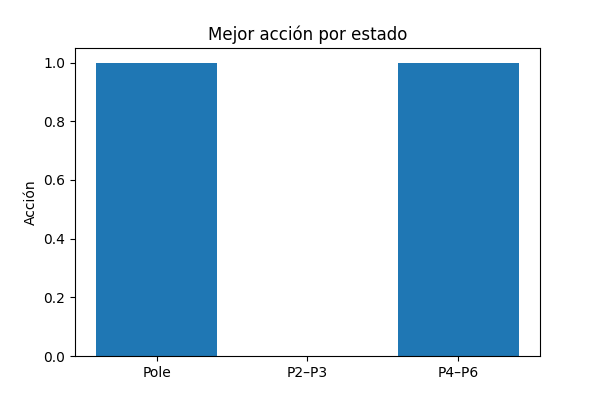
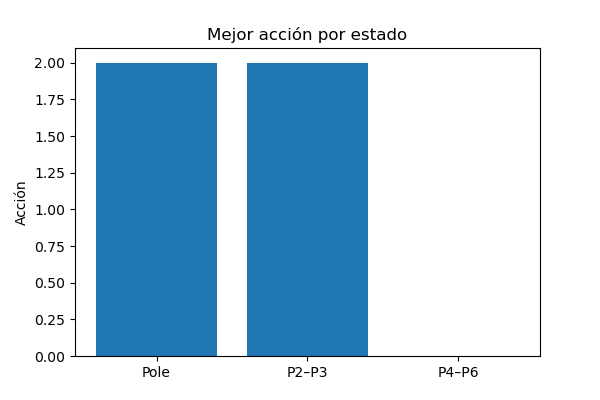
Resultados por consola

diff --git a/utils/track_mapper.py b/utils/track_mapper.py
@@ -8,7 +8,6 @@ import sys
 def get_track_waypoints():
     pygame.init()
     
-    # Cargar la imagen del circuito
     track_img = pygame.image.load("assets/track.png")
     track_img = pygame.transform.scale(track_img, (900, 600))
     
@@ -26,30 +25,30 @@ def get_track_waypoints():
             elif event.type == pygame.KEYDOWN:
                 if event.key == pygame.K_ESCAPE:
                     running = False
-                elif event.key == pygame.K_u and waypoints:  # U para deshacer último punto
+                elif event.key == pygame.K_u and waypoints:  
                     waypoints.pop()
             elif event.type == pygame.MOUSEBUTTONDOWN:
-                # Agregar waypoint
+
                 pos = pygame.mouse.get_pos()
                 waypoints.append(pos)
                 print(f"Punto {len(waypoints)}: {pos}")
         
-        # Dibujar
+
         screen.blit(track_img, (0, 0))
         
-        # Dibujar waypoints y líneas
+
         if len(waypoints) > 0:
             for i, point in enumerate(waypoints):
                 pygame.draw.circle(screen, (255, 0, 0), point, 5)
-                # Número del punto
+
                 text = font.render(str(i+1), True, (255, 255, 255))
                 screen.blit(text, (point[0] + 8, point[1] - 8))
             
-            # Líneas conectando waypoints
+
             if len(waypoints) > 1:
                 pygame.draw.lines(screen, (0, 255, 0), False, waypoints, 2)
         
-        # Instrucciones
+
         instructions = [
             "Haz clic para agregar puntos siguiendo el circuito",
             f"Puntos marcados: {len(waypoints)}",
@@ -67,7 +66,7 @@ def get_track_waypoints():
     
     pygame.quit()
     
-    # Imprimir el código para copiar
+
     if waypoints:
         print("\n" + "="*60)
         print("COPIA ESTE CÓDIGO EN create_track_path():")

diff --git a/agent/q_learning.py b/agent/q_learning.py
@@ -53,5 +53,27 @@ def train_q_learning(env, episodes=10000,
     print(f"Victorias totales: {total_wins}/{episodes} ({total_win_rate:.2f}%)")
     print(f"Q-table final:\n{Q}")
     print("-" * 60)
+    
+    # Mostrar política óptima aprendida
+    print("\n🏆 🏎  ESTRATEGIA ÓPTIMA APRENDIDA:")
+    print("=" * 60)
+    
+    estados = ["Pole Position", "P2-P3", "P4-P6"]
+    acciones = ["Conservadora", "Normal", "Agresiva"]
+    emojis = ["🥇", "🥈", "🥉"]
+    
+    for i, (estado, emoji) in enumerate(zip(estados, emojis)):
+        best_action = np.argmax(Q[i])
+        best_value = Q[i, best_action]
+        win_probability = best_value * 100
+        
+        print(f"{emoji} Desde {estado}:")
+        print(f"   → Estrategia: {acciones[best_action]}")
+        print(f"   → Probabilidad de victoria: {win_probability:.2f}%")
+        print(f"   → Q-values: Cons={Q[i,0]:.3f}, Norm={Q[i,1]:.3f}, Agre={Q[i,2]:.3f}")
+        print()
+    
+    print("=" * 60)
 
     return Q, rewards_log
+

diff --git a/main.py b/main.py
@@ -21,8 +21,8 @@ if __name__ == "__main__":
 
     # Descomentar para ejecutar la simulación animada de la carrera
 
-    print("Iniciando simulación animada de carrera...")
-    sim = F1RaceSim(env, Q, episodes=500)
-    sim.run()
+    #print("Iniciando simulación animada de carrera...")
+    #sim = F1RaceSim(env, Q, episodes=500)
+    #sim.run() 
     
     print("Entrenamiento completado. Gráficas guardadas en /results")
